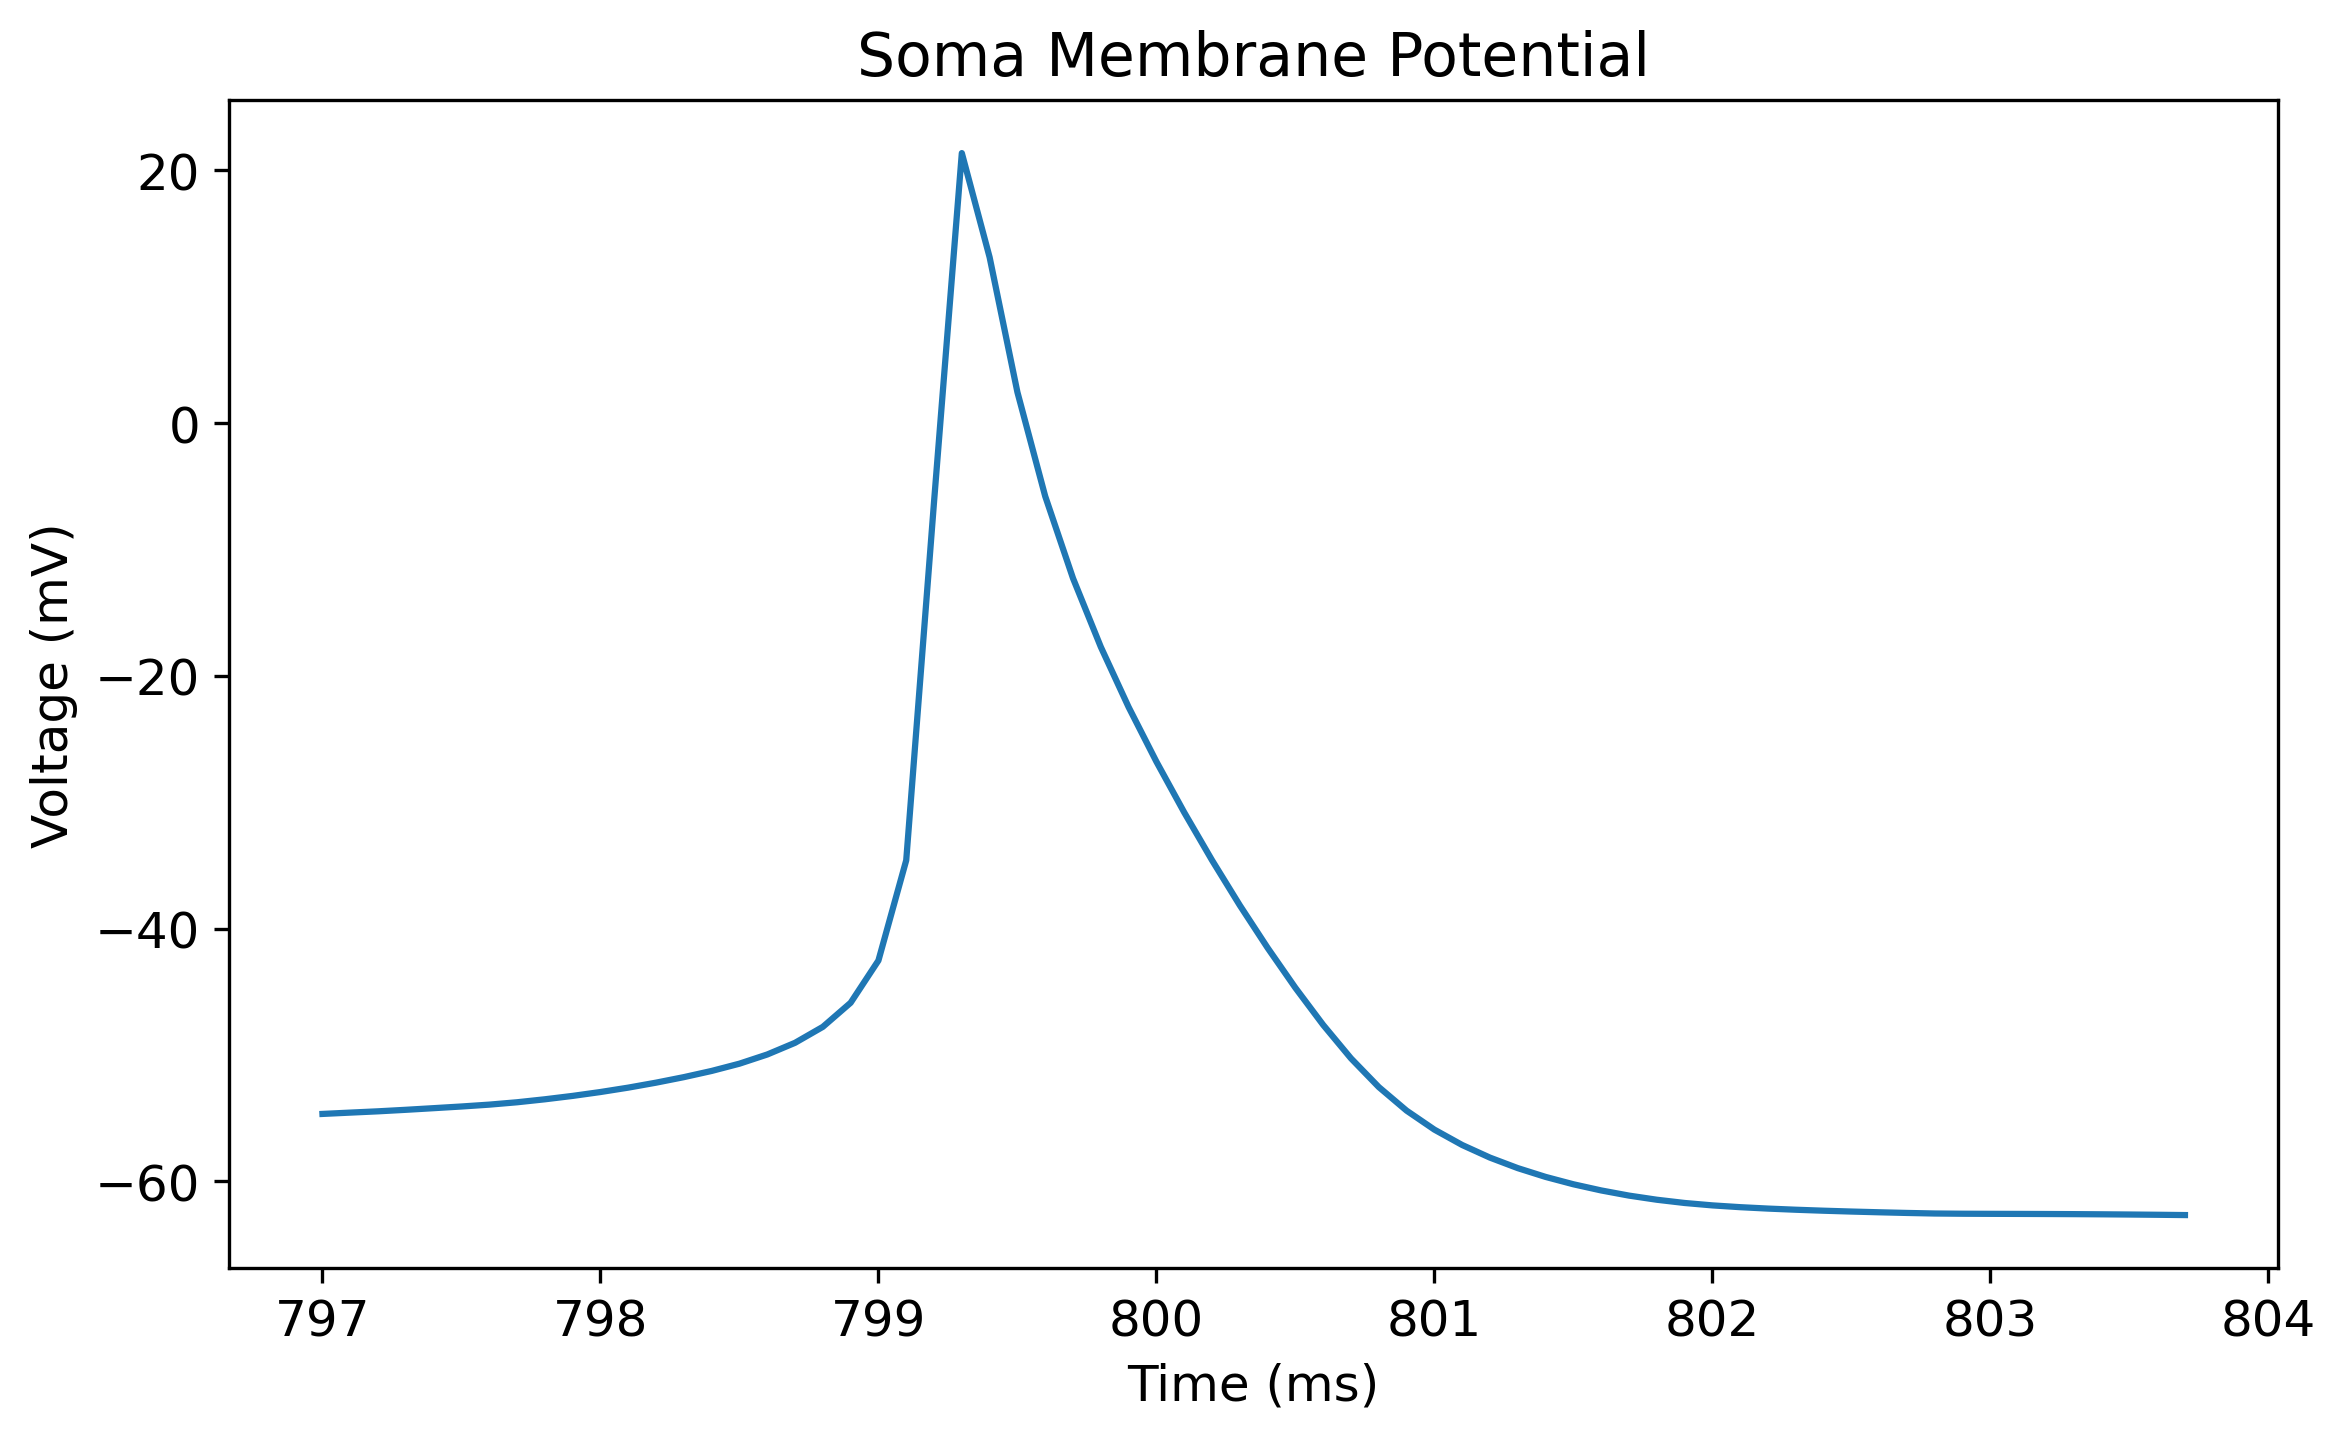
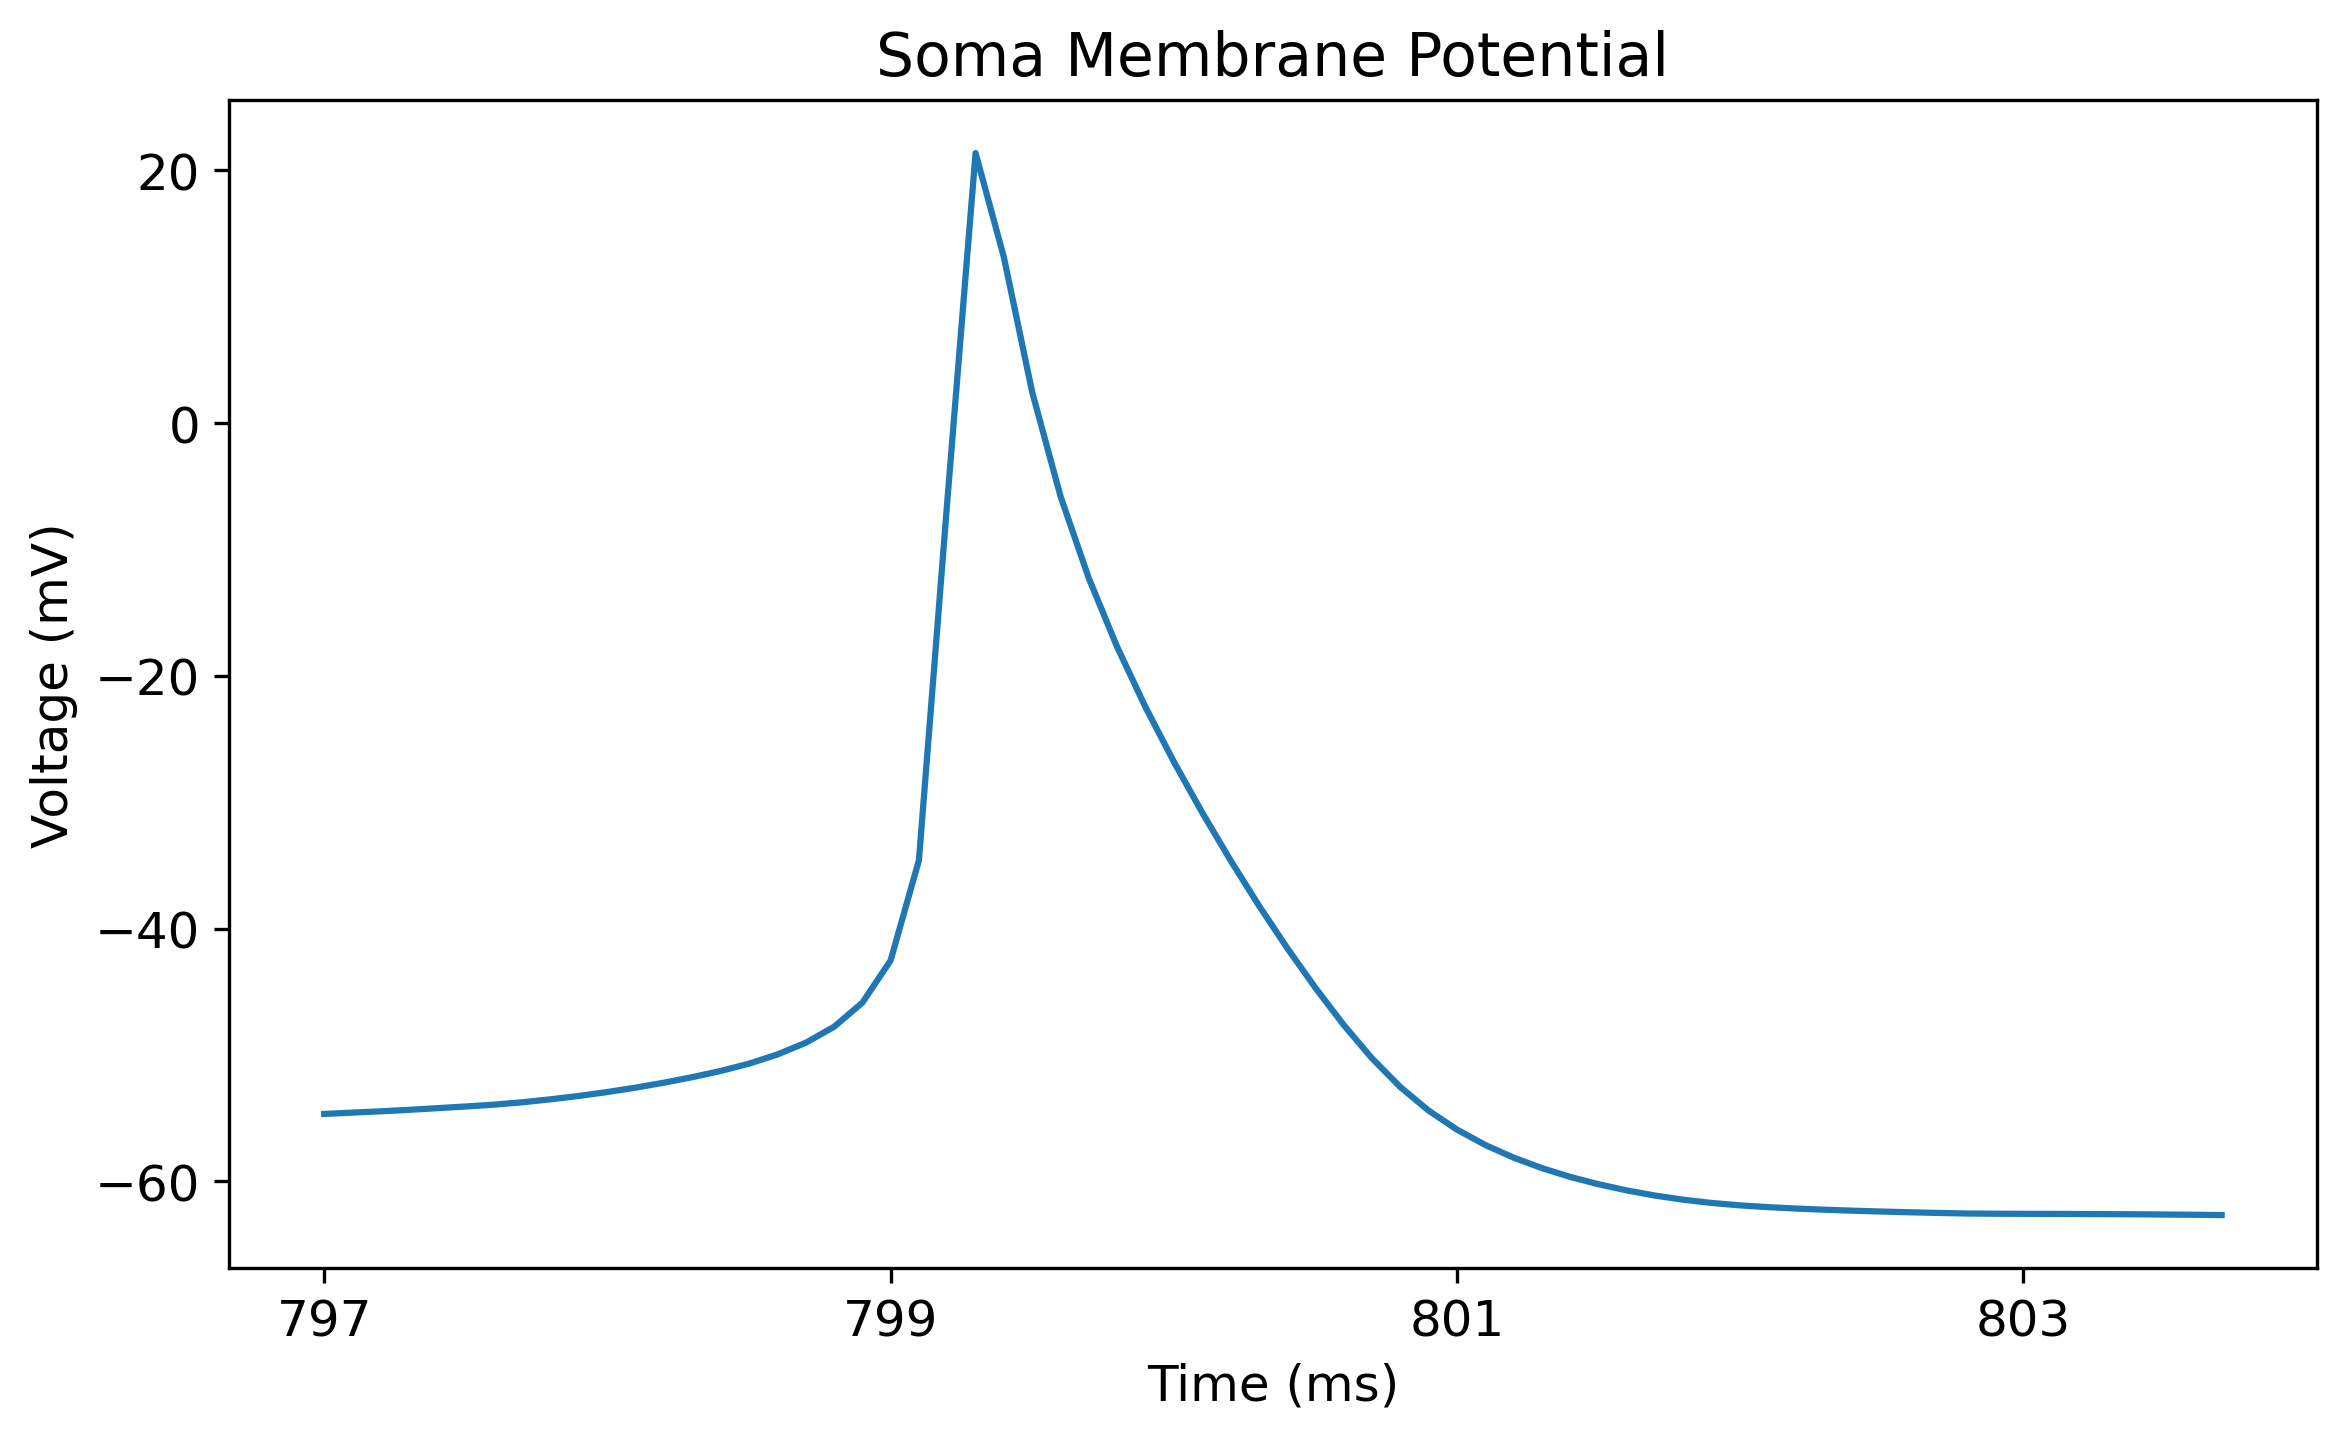
updated isolated traces and shape

diff --git a/model_helpers.py b/model_helpers.py
@@ -651,7 +651,7 @@ def plot_syns_traces(simData, syn_secs, sim_label, sim_dir, syn_colors):
     fig.savefig(os.path.join(sim_dir,f'{sim_label}-syns_pot.png'),bbox_inches='tight',dpi=300)
 
 
-def plot_isoalted_syn_traces(simData, syn_secs, syns_type, num_syns, sim_label, sim_dir, output_dir, syn_colors):
+def plot_isolated_syn_traces(simData, syn_secs, syns_type, num_syns, sim_label, sim_dir, output_dir, syn_colors):
 
     t = np.array(simData['t'])
     time_window_path = os.path.join(output_dir,'eap_time_windows.pkl')
@@ -694,7 +694,7 @@ def plot_isoalted_syn_traces(simData, syn_secs, syns_type, num_syns, sim_label, 
         fig.savefig(os.path.join(sim_dir,f'{sim_label}-isolated_syns_pot.png'),bbox_inches='tight',dpi=300)
 
 
-def plot_isoalted_soma_pot(simData, syns_type, num_syns, sim_label, sim_dir, output_dir):
+def plot_isolated_soma_pot(simData, syns_type, num_syns, sim_label, sim_dir, output_dir):
 
     t = np.array(simData['t'])
     time_window_path = os.path.join(output_dir,'eap_time_windows.pkl')
@@ -713,6 +713,7 @@ def plot_isoalted_soma_pot(simData, syns_type, num_syns, sim_label, sim_dir, out
     try:
         slice_start = time_windows[slice_group][num_syns][0]
         slice_end = time_windows[slice_group][num_syns][1]
+        t_spike = time_windows[slice_group][num_syns][2]
     except KeyError:
         plot_flag = False
 
@@ -728,8 +729,63 @@ def plot_isoalted_soma_pot(simData, syns_type, num_syns, sim_label, sim_dir, out
         axs.set_ylabel('Voltage (mV)')
         axs.set_xlabel('Time (ms)')
 
+        xticks = [(int(t_spike.round(0))-2)+2*i for i in range(4)]
+        axs.set_xticks(xticks)
+
         fig.tight_layout()
         fig.savefig(os.path.join(sim_dir,f'{sim_label}-isolated_soma_pot.png'),bbox_inches='tight',dpi=300)
+
+
+def plot_isolated_traces(simData, syn_secs, syns_type, num_syns, sim_label, sim_dir, output_dir, syn_colors):
+
+    t = np.array(simData['t'])
+    time_window_path = os.path.join(output_dir,'eap_time_windows.pkl')
+    with open(time_window_path,'rb') as fp:
+        time_windows = pickle.load(fp)
+
+    V_soma = np.array(simData['V_soma']['cell_0'])
+    t_spikes = t[np.where(V_soma>10)]
+
+    if len(t_spikes) > 0:
+        slice_group = syns_type
+    else:
+        slice_group = 'soma' if 'distal' in syns_type else syns_type
+    
+    plot_flag = True
+    try:
+        slice_start = time_windows[slice_group][num_syns][0]
+        slice_end = time_windows[slice_group][num_syns][1]
+        t_spike = time_windows[slice_group][num_syns][2]
+    except KeyError:
+        plot_flag = False
+
+    ### PLOT SYNAPSE LOCATION MEMBRANE POTENTIALS OF ISOLATED EAP ###
+    if plot_flag:
+        t_window = t[slice_start:slice_end]
+
+        fig, axs = plt.subplots(1, 2, figsize=(5,4))
+        axs = axs.ravel()
+
+        V_soma_window = V_soma[slice_start:slice_end]
+        axs[0].plot(t_window, V_soma_window, color='tab:blue')
+        for syn_sec in syn_secs:
+            if f'V_{syn_sec}' in simData.keys():
+                V_sec = np.array(simData[f'V_{syn_sec}']['cell_0'])
+                V_sec_window = V_sec[slice_start:slice_end]
+            
+                axs[1].plot(t_window, V_sec_window, color=syn_colors['E'])
+
+        axs[0].set_title(f'Soma')
+        axs[0].set_ylabel('Voltage (mV)')
+        axs[1].set_title('Synapse Location')
+
+        for ax_i in axs:
+            xticks = [(int(t_spike.round(0))-2)+2*i for i in range(4)]
+            ax_i.set_xticks(xticks)
+            ax_i.set_xlabel('Time (ms)')
+
+        fig.tight_layout()
+        fig.savefig(os.path.join(sim_dir,f'{sim_label}-isolated_traces.png'),bbox_inches='tight',dpi=300)
 
 
 def plot_isolated_LFP(simData, syns_type, num_syns, sim_label, sim_dir, output_dir):

diff --git a/simulate_netpyne.py b/simulate_netpyne.py
@@ -1,4 +1,5 @@
 import matplotlib.pyplot as plt
+import matplotlib as mpl
 import os
 import secrets
 import json
@@ -86,7 +87,7 @@ def run_sim(config_name, *batch_params):
     cfg.recordStep = params.recordStep
     # cfg.recordStim = True
     cfg.filename = os.path.join(sim_dir,cell_name+'_'+params.sim_label) 	# Set file output name
-    cfg.savePickle = False
+    cfg.savePickle = params.save_pickle
     cfg.analysis['plotTraces'] = {'include': [pop_label], 'saveFig': False}  # Plot recorded traces for this list of cells
     cfg.hParams['celsius'] = 34.0 
     cfg.hParams['v_init'] = params.vinit
@@ -312,17 +313,14 @@ def run_sim(config_name, *batch_params):
     ### Plot isolated LFP ###
     if params.record_LFP:
         mh.plot_isolated_LFP(simData, params.syns_type, params.num_syns_E, params.sim_label, sim_dir, output_dir)
-        mh.plot_isoalted_syn_traces(simData, syn_secs, params.syns_type, params.num_syns_E, params.sim_label, sim_dir, output_dir, synColors)
-        mh.plot_isoalted_soma_pot(simData, params.syns_type, params.num_syns_E, params.sim_label, sim_dir, output_dir)
+        mh.plot_isolated_syn_traces(simData, syn_secs, params.syns_type, params.num_syns_E, params.sim_label, sim_dir, output_dir, synColors)
+        mh.plot_isolated_traces(simData, syn_secs, params.syns_type, params.num_syns_E, params.sim_label, sim_dir, output_dir, synColors)
+        mh.plot_isolated_soma_pot(simData, params.syns_type, params.num_syns_E, params.sim_label, sim_dir, output_dir)
 
 
     # TODO - solid color synapses
     ### Plot morphology ###
     if params.plot_morphology:
-        sim.analysis.plotShape(showSyns=True, dist=0.8, includePre=[None], includePost=[pop_label], 
-                            saveFig=True, axisLabels=True, returnPlotter=True, secSynColors=secSynColors, colormaps=(colormapE,colormapI), synColors=synColors)
-
-
-
-
-# run_sim('exc_config', ('syns_weight',0.5))
+        sim.analysis.plotShape(showSyns=True, dist=0.8, includePre=[None], includePost=[pop_label], axisLabels=False, includeGrid=False,
+                               saveFig=True, fontSize=10, returnPlotter=True, bkgColor=mpl.colors.to_rgba('w'), 
+                               secSynColors=secSynColors, colormaps=(colormapE,colormapI), synColors=synColors)

diff --git a/batch_simulate_netpyne.py b/batch_simulate_netpyne.py
@@ -15,10 +15,7 @@ group_num_syns = {'soma': [25, 50, 100, 200, 300],
   #  'soma': [10, 50, 100, 200, 300],  # [5*i for i in range(50,61)],
   #                 'basal': list(chain([10, 50, 100, 200, 300],[5*i for i in range(61,101)])),
   #                 'apical_distal': list(chain([10, 50, 100, 200, 300],[5*i for i in range(181,241)]))}
-                  # 'basal': 30}
-                  # 'basal_soma': 30,
-                  # 'apical_proximal': 35,
-                  # 'apical_distal': 700}
+
 paramGrids = []
 
 for sim_flag, param_set in param_sets.items():
@@ -26,16 +23,17 @@ for sim_flag, param_set in param_sets.items():
       for num_syn in num_syns:
 
         paramGrid = {'sim_name': ['LFP'],
-                    'sim_flag': [sim_flag],
-                    'nmldb_id': ['NMLCL000073'],  # NMLCL000660, NMLCL000073
-                    'syns_type': [syn_group],  #, 'apical_proximal', 'apical_distal', 'basal'],  #, 'apical_distal'],  #'soma', 'basal', 'apical'],  # 'basal_apical', 'basal_soma', 'apical_soma', 'basal_apical_soma', 'all'
-                    'num_syns_E': [num_syn], # [50, 70],  # 90, 110],
-                    'add_bkg': [False], 
-                    'record_LFP': [True],
-                    'depths': [4],
-                    'sim_dur': [1000],
-                    'stim_dur': [400],
-                    'stim_delay': [400]}  #[0, 1.0], [1.0, 0]]}
+                     'sim_flag': [sim_flag],
+                     'nmldb_id': ['NMLCL000073'],  # NMLCL000660, NMLCL000073
+                     'syns_type': [syn_group],  #, 'apical_proximal', 'apical_distal', 'basal'],  #, 'apical_distal'],  #'soma', 'basal', 'apical'],  # 'basal_apical', 'basal_soma', 'apical_soma', 'basal_apical_soma', 'all'
+                     'num_syns_E': [num_syn], # [50, 70],  # 90, 110],
+                     'add_bkg': [False], 
+                     'record_LFP': [True],
+                     'depths': [4],
+                     'sim_dur': [1000],
+                     'stim_dur': [400],
+                     'stim_delay': [400],
+                     'save_pickle': [False]}  #[0, 1.0], [1.0, 0]]}
         
         for param_name, param in param_set.items():
           paramGrid[param_name] = [param]
